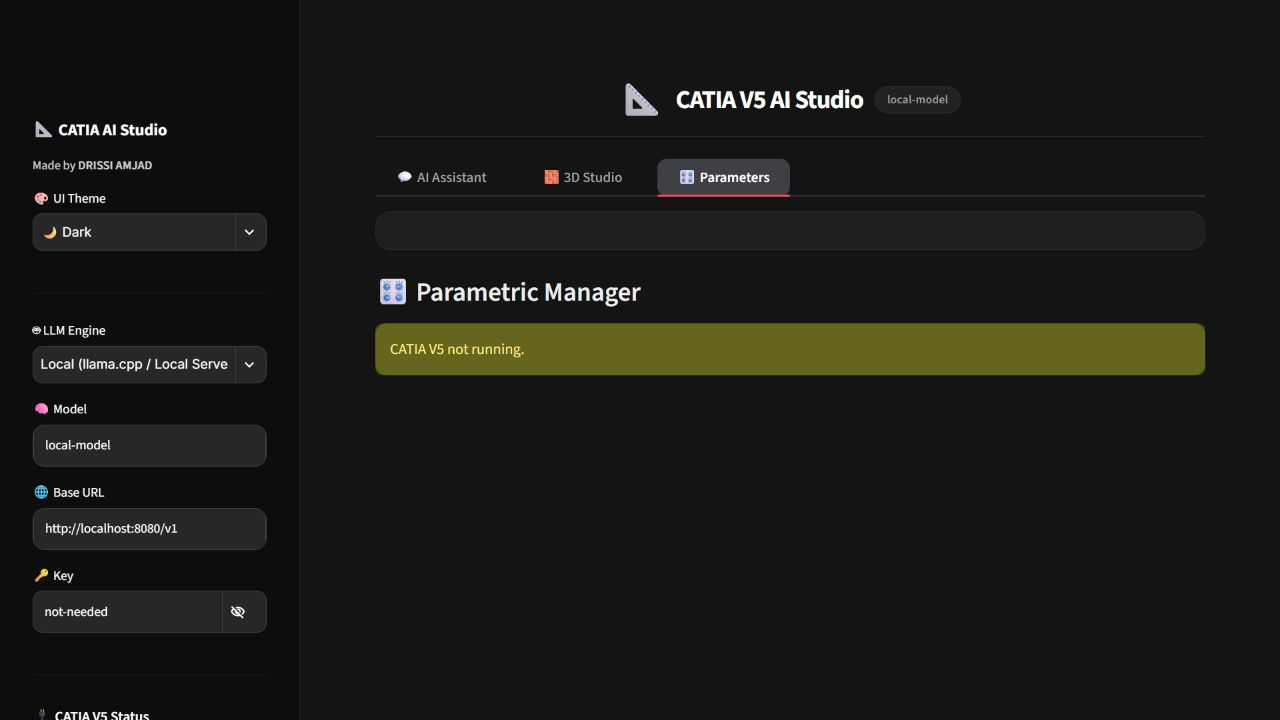
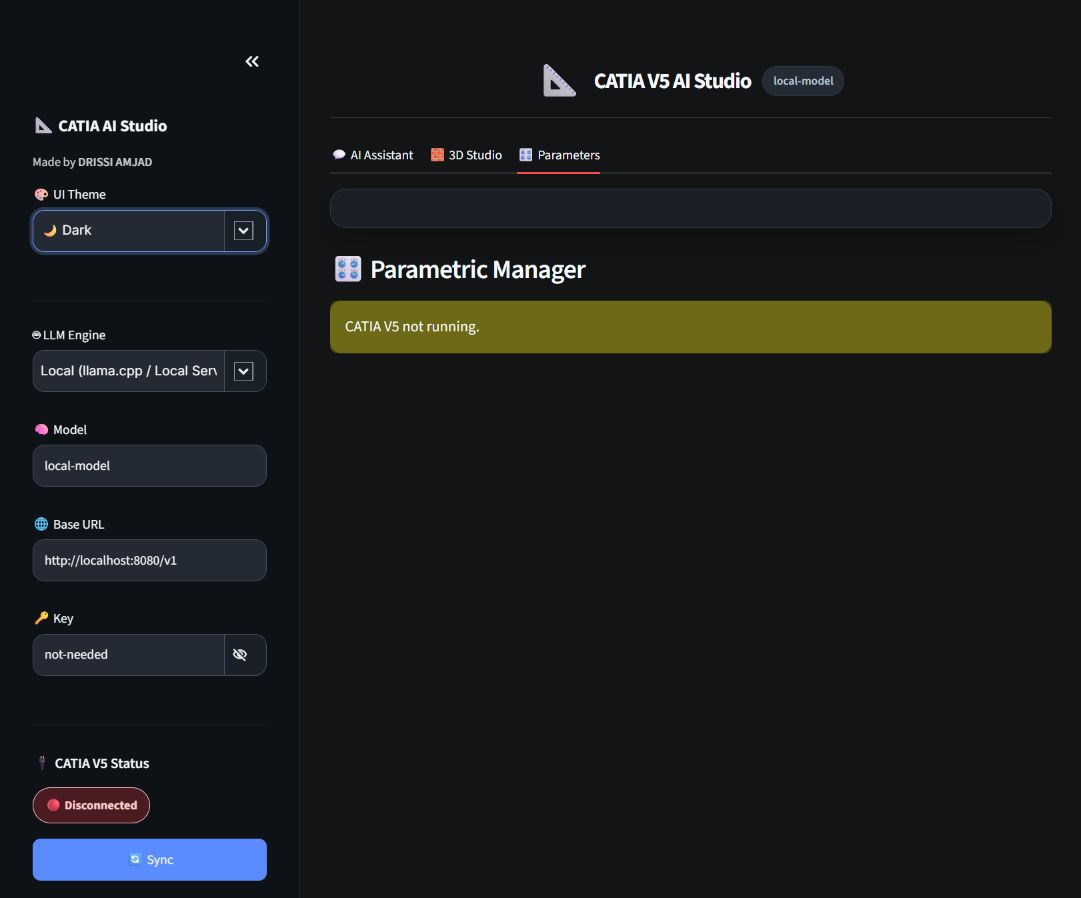
Complete semantic theme and UI refresh

diff --git a/app.py b/app.py
@@ -933,7 +933,7 @@ To split an existing solid with a 1mm gap, create a cutter body with a 1mm-thick
 # STREAMLIT GUI
 # ==============================================================================
 
-def inject_css(theme="🌙 Dark"):
+def _legacy_inject_css(theme="🌙 Dark"):
     if theme == "☀ Light":
         bg_app = "#f8fafc"
         color_app = "#0f172a"
@@ -1379,6 +1379,345 @@ def inject_css(theme="🌙 Dark"):
         }}
     }}
     </style>""", unsafe_allow_html=True)
+
+
+def _theme_tokens(theme):
+    """Return the single semantic visual contract used by every UI component."""
+    common = {
+        "radius-sm": "8px",
+        "radius-md": "12px",
+        "radius-lg": "16px",
+        "motion-fast": "150ms",
+        "motion-standard": "200ms",
+        "motion-slow": "300ms",
+        "font-body": "Inter, ui-sans-serif, system-ui, -apple-system, BlinkMacSystemFont, 'Segoe UI', sans-serif",
+    }
+    if theme == "☀ Light":
+        return {**common, **{
+            "color-scheme": "light",
+            "app-bg": "#f7f9fc", "sidebar-bg": "#ffffff", "surface": "#ffffff", "surface-subtle": "#f1f5f9",
+            "surface-hover": "#eef4ff", "border": "#d9e2ec", "border-strong": "#b8c7d9",
+            "text": "#0f172a", "text-muted": "#52606d", "text-faint": "#7b8794",
+            "sidebar-text": "#0f172a", "sidebar-muted": "#52606d", "sidebar-border": "#e1e8f0",
+            "primary": "#2563eb", "primary-hover": "#1d4ed8", "primary-text": "#ffffff",
+            "focus": "#2563eb", "focus-ring": "rgba(37, 99, 235, .24)",
+            "input-bg": "#ffffff", "input-text": "#0f172a", "input-border": "#b8c7d9",
+            "input-hover": "#f8fbff", "control-suffix": "#f3f6fa", "control-suffix-text": "#334155",
+            "chip-bg": "#eef2f7", "chip-text": "#475569", "shadow": "0 10px 30px rgba(15, 23, 42, .06)",
+            "warning-bg": "#fef3c7", "warning-text": "#92400e", "info-bg": "#e0f2fe", "info-text": "#075985",
+            "success-bg": "#dcfce7", "success-text": "#166534", "danger-bg": "#fee2e2", "danger-text": "#991b1b",
+        }}
+    if theme == "🔵 Ocean Blue":
+        return {**common, **{
+            "color-scheme": "light",
+            "app-bg": "#eff6ff", "sidebar-bg": "#0b1629", "surface": "#ffffff", "surface-subtle": "#e6f4ff",
+            "surface-hover": "#dff1ff", "border": "#b9e6ff", "border-strong": "#72c8f0",
+            "text": "#0c4a6e", "text-muted": "#27678b", "text-faint": "#5282a0",
+            "sidebar-text": "#f0f9ff", "sidebar-muted": "#b9d9ec", "sidebar-border": "#203451",
+            "primary": "#0891b2", "primary-hover": "#0e7490", "primary-text": "#ffffff",
+            "focus": "#0284c7", "focus-ring": "rgba(2, 132, 199, .28)",
+            "input-bg": "#1b2a40", "input-text": "#f0f9ff", "input-border": "#334c6b",
+            "input-hover": "#21354f", "control-suffix": "#152238", "control-suffix-text": "#d9f2ff",
+            "chip-bg": "#dff3ff", "chip-text": "#03648c", "shadow": "0 10px 28px rgba(14, 116, 144, .08)",
+            "warning-bg": "#fef3c7", "warning-text": "#92400e", "info-bg": "#dff4ff", "info-text": "#075985",
+            "success-bg": "#dcfce7", "success-text": "#166534", "danger-bg": "#fee2e2", "danger-text": "#991b1b",
+        }}
+    return {**common, **{
+        "color-scheme": "dark",
+        "app-bg": "#121416", "sidebar-bg": "#0e1115", "surface": "#1b2026", "surface-subtle": "#20262e",
+        "surface-hover": "#27303a", "border": "#303943", "border-strong": "#485565",
+        "text": "#f4f7fb", "text-muted": "#a9b4c0", "text-faint": "#7f8b98",
+        "sidebar-text": "#f4f7fb", "sidebar-muted": "#a9b4c0", "sidebar-border": "#252c34",
+        "primary": "#5b8cff", "primary-hover": "#4676e8", "primary-text": "#ffffff",
+        "focus": "#78a0ff", "focus-ring": "rgba(120, 160, 255, .28)",
+        "input-bg": "#232a33", "input-text": "#f4f7fb", "input-border": "#465261",
+        "input-hover": "#2a333e", "control-suffix": "#1a2027", "control-suffix-text": "#e7edf5",
+        "chip-bg": "#242b34", "chip-text": "#b9c6d5", "shadow": "0 12px 32px rgba(0, 0, 0, .22)",
+        "warning-bg": "#4a4316", "warning-text": "#fef08a", "info-bg": "#172d48", "info-text": "#bfdbfe",
+        "success-bg": "#123d2a", "success-text": "#bbf7d0", "danger-bg": "#4a1b20", "danger-text": "#fecaca",
+    }}
+
+
+def inject_css(theme="🌙 Dark"):
+    tokens = _theme_tokens(theme)
+    root_tokens = "\n".join(
+        f"        --ui-{key}: {value};" for key, value in tokens.items()
+    )
+    css = """<style>
+    @import url('https://fonts.googleapis.com/css2?family=Inter:wght@400;500;600;700&display=swap');
+    :root {
+__ROOT_TOKENS__
+    }
+
+    /* Global surfaces and type hierarchy. */
+    html, body, [data-testid="stAppViewContainer"], [data-testid="stMain"],
+    [data-testid="stMainBlockContainer"], .stApp {
+        background: var(--ui-app-bg) !important;
+        color: var(--ui-text) !important;
+        font-family: var(--ui-font-body) !important;
+    }
+    html, body { font-size: 15px; line-height: 1.5; }
+    [data-testid="stMainBlockContainer"] {
+        max-width: 1440px;
+        padding: 2rem 2rem 5rem;
+    }
+    [data-testid="stMain"] h1, [data-testid="stMain"] h2,
+    [data-testid="stMain"] h3, [data-testid="stMain"] h4 {
+        color: var(--ui-text) !important;
+        letter-spacing: -.025em;
+    }
+    [data-testid="stMain"] p, [data-testid="stMain"] label,
+    [data-testid="stMain"] [data-testid="stMarkdownContainer"] {
+        color: var(--ui-text) !important;
+    }
+    [data-testid="stMain"] small, [data-testid="stMain"] [data-testid="stCaptionContainer"] {
+        color: var(--ui-text-muted) !important;
+    }
+    ::selection { background: var(--ui-focus-ring); color: var(--ui-text); }
+
+    /* Sidebar and its visual grouping. */
+    section[data-testid="stSidebar"] {
+        background: var(--ui-sidebar-bg) !important;
+        border-right: 1px solid var(--ui-sidebar-border) !important;
+    }
+    [data-testid="stSidebarContent"] { padding: 2.25rem 1.5rem 1.5rem; }
+    section[data-testid="stSidebar"] h1, section[data-testid="stSidebar"] h2,
+    section[data-testid="stSidebar"] h3, section[data-testid="stSidebar"] h4,
+    section[data-testid="stSidebar"] label, section[data-testid="stSidebar"] p,
+    section[data-testid="stSidebar"] span, section[data-testid="stSidebar"] [data-testid="stMarkdownContainer"] {
+        color: var(--ui-sidebar-text) !important;
+    }
+    section[data-testid="stSidebar"] [data-testid="stCaptionContainer"] {
+        color: var(--ui-sidebar-muted) !important;
+    }
+    section[data-testid="stSidebar"] hr {
+        border-color: var(--ui-sidebar-border) !important;
+        margin: 1.5rem 0 !important;
+    }
+    [data-testid="collapsedControl"] {
+        color: var(--ui-sidebar-text) !important;
+        background: var(--ui-sidebar-bg) !important;
+    }
+
+    /* Shared form field surface. The suffix buttons intentionally use the
+       same token as the field, preventing theme-specific black blocks. */
+    [data-testid="stTextInput"], [data-testid="stNumberInput"], [data-testid="stSelectbox"],
+    [data-testid="stTextArea"], [data-testid="stFileUploader"] { margin-bottom: .75rem; }
+    [data-testid="stTextInputRootElement"], [data-testid="stNumberInput"] > div,
+    [data-testid="stSelectbox"] [data-baseweb="select"] > div,
+    [data-testid="stTextArea"] textarea, [data-testid="stTextInput"] input,
+    [data-testid="stNumberInput"] input {
+        background: var(--ui-input-bg) !important;
+        color: var(--ui-input-text) !important;
+        border: 1px solid var(--ui-input-border) !important;
+        border-radius: var(--ui-radius-md) !important;
+        box-sizing: border-box !important;
+        min-height: 42px;
+        transition: background var(--ui-motion-fast) ease, border-color var(--ui-motion-fast) ease, box-shadow var(--ui-motion-fast) ease;
+    }
+    /* Streamlit 1.5x uses React-Aria for selectboxes. Keep this selector
+       alongside the BaseWeb selector so the theme remains stable across
+       Streamlit markup versions. */
+    [data-testid="stSelectbox"] .react-aria-ComboBox > [role="group"] {
+        background: var(--ui-input-bg) !important;
+        border: 1px solid var(--ui-input-border) !important;
+        border-radius: var(--ui-radius-md) !important;
+        box-sizing: border-box !important;
+        min-height: 42px;
+        overflow: hidden;
+    }
+    [data-testid="stSelectbox"] .react-aria-ComboBox > [role="group"] > input {
+        background: transparent !important;
+        border: 0 !important;
+        color: var(--ui-input-text) !important;
+        min-height: 40px;
+    }
+    [data-testid="stSelectbox"] .react-aria-ComboBox > [role="group"] > button {
+        background: var(--ui-control-suffix) !important;
+        border: 0 !important;
+        border-left: 1px solid var(--ui-input-border) !important;
+        border-radius: 0 !important;
+        color: var(--ui-control-suffix-text) !important;
+        min-height: 40px !important;
+        min-width: 42px !important;
+    }
+    [data-testid="stSelectbox"] .react-aria-ComboBox > [role="group"] svg {
+        color: var(--ui-control-suffix-text) !important;
+        fill: var(--ui-control-suffix-text) !important;
+        stroke: var(--ui-control-suffix-text) !important;
+    }
+    [data-testid="stTextInputRootElement"] input,
+    [data-testid="stNumberInput"] input { border: 0 !important; border-radius: inherit !important; }
+    [data-testid="stTextInputRootElement"] > div { background: transparent !important; }
+    [data-testid="stSelectbox"] [data-baseweb="select"] > div > div,
+    [data-testid="stSelectbox"] [role="combobox"],
+    [data-testid="stSelectbox"] svg {
+        color: var(--ui-input-text) !important;
+        fill: var(--ui-input-text) !important;
+        stroke: var(--ui-input-text) !important;
+    }
+    [data-testid="stTextInputRootElement"] button,
+    [data-testid="stSelectbox"] button,
+    [data-testid="stNumberInput"] button {
+        background: var(--ui-control-suffix) !important;
+        color: var(--ui-control-suffix-text) !important;
+        border-color: var(--ui-input-border) !important;
+        min-width: 42px !important;
+        min-height: 40px !important;
+    }
+    [data-testid="stTextInputRootElement"] button[aria-pressed] {
+        border: 0 !important;
+        border-left: 1px solid var(--ui-input-border) !important;
+        border-radius: 0 var(--ui-radius-md) var(--ui-radius-md) 0 !important;
+    }
+    [data-testid="stTextInputRootElement"] svg,
+    [data-testid="stSelectbox"] button svg,
+    [data-testid="stNumberInput"] button svg {
+        color: var(--ui-control-suffix-text) !important;
+        fill: var(--ui-control-suffix-text) !important;
+        stroke: var(--ui-control-suffix-text) !important;
+    }
+    [data-testid="stTextInputRootElement"]:focus-within,
+    [data-testid="stNumberInput"]:focus-within,
+    [data-testid="stSelectbox"] [data-baseweb="select"]:focus-within,
+    [data-testid="stSelectbox"] .react-aria-ComboBox > [role="group"]:focus-within,
+    [data-testid="stTextArea"] textarea:focus {
+        border-color: var(--ui-focus) !important;
+        box-shadow: 0 0 0 3px var(--ui-focus-ring) !important;
+        outline: 0 !important;
+    }
+    input::placeholder, textarea::placeholder {
+        color: var(--ui-text-muted) !important;
+        opacity: .9 !important;
+    }
+    [data-testid="stTextInputRootElement"]:hover,
+    [data-testid="stNumberInput"]:hover,
+    [data-testid="stSelectbox"] [data-baseweb="select"] > div:hover,
+    [data-testid="stSelectbox"] .react-aria-ComboBox > [role="group"]:hover,
+    [data-testid="stTextArea"] textarea:hover { background: var(--ui-input-hover) !important; }
+    button:disabled, input:disabled, textarea:disabled {
+        opacity: .55 !important;
+        cursor: not-allowed !important;
+    }
+    [data-baseweb="popover"], [data-baseweb="menu"], ul[role="listbox"] {
+        background: var(--ui-surface) !important;
+        border: 1px solid var(--ui-border) !important;
+        border-radius: var(--ui-radius-md) !important;
+        box-shadow: var(--ui-shadow) !important;
+    }
+    li[role="option"], li[role="option"] * {
+        background: var(--ui-surface) !important;
+        color: var(--ui-text) !important;
+    }
+    li[role="option"]:hover, li[role="option"][aria-selected="true"] {
+        background: var(--ui-surface-hover) !important;
+    }
+
+    /* Native focus is retained and made visible on every operable control. */
+    button:focus-visible, input:focus-visible, textarea:focus-visible,
+    [role="combobox"]:focus-visible, [role="tab"]:focus-visible,
+    summary:focus-visible {
+        outline: 2px solid var(--ui-focus) !important;
+        outline-offset: 2px !important;
+    }
+
+    /* Header and workspace navigation. */
+    .hdr {
+        align-items: center;
+        border-bottom: 1px solid var(--ui-border);
+        display: flex;
+        gap: .75rem;
+        justify-content: center;
+        margin: 0 auto 1.25rem;
+        min-height: 72px;
+        padding: .75rem 0;
+    }
+    .hdr-t { color: var(--ui-text) !important; font-size: clamp(1.45rem, 2vw, 1.9rem); font-weight: 700; letter-spacing: -.04em; }
+    .chip { background: var(--ui-chip-bg) !important; border: 1px solid var(--ui-border); border-radius: 999px; color: var(--ui-chip-text) !important; font-size: .78rem; font-weight: 600; padding: .35rem .7rem; }
+    [data-testid="stTabs"] [data-baseweb="tab-list"], [data-testid="stTabsHeader"] {
+        background: transparent !important;
+        border-bottom: 1px solid var(--ui-border) !important;
+        border-radius: 0 !important;
+        gap: 4px !important;
+        justify-content: flex-start !important;
+        margin: 0 0 1.5rem !important;
+        max-width: none !important;
+        padding: 0 !important;
+    }
+    [data-testid="stTabs"] [data-baseweb="tab"], [data-testid="stTabs"] button[role="tab"] {
+        border-radius: var(--ui-radius-sm) var(--ui-radius-sm) 0 0 !important;
+        color: var(--ui-text-muted) !important;
+        min-height: 44px !important;
+        padding: .65rem 1rem !important;
+        transition: background var(--ui-motion-fast) ease, color var(--ui-motion-fast) ease, box-shadow var(--ui-motion-fast) ease;
+    }
+    [data-testid="stTabs"] [data-baseweb="tab"] *, [data-testid="stTabs"] button[role="tab"] * { color: inherit !important; }
+    [data-testid="stTabs"] [data-baseweb="tab"][aria-selected="true"], [data-testid="stTabs"] button[role="tab"][aria-selected="true"] {
+        background: var(--ui-primary) !important;
+        box-shadow: inset 0 -3px 0 var(--ui-primary-hover) !important;
+        color: var(--ui-primary-text) !important;
+    }
+
+    /* Quick-start cards, working panels, expanders, and upload states. */
+    .qc { display: grid; gap: .75rem; grid-template-columns: repeat(2, minmax(0, 1fr)); margin: 1.25rem auto 1.75rem; max-width: 900px; }
+    .qci, .wp, [data-testid="stExpander"], details {
+        background: var(--ui-surface) !important;
+        border: 1px solid var(--ui-border) !important;
+        border-radius: var(--ui-radius-lg) !important;
+        box-shadow: var(--ui-shadow) !important;
+    }
+    .qci { min-height: 86px; padding: 1rem 1.1rem; transition: background var(--ui-motion-fast) ease, border-color var(--ui-motion-fast) ease, transform var(--ui-motion-fast) ease; }
+    .qci:hover { background: var(--ui-surface-hover) !important; border-color: var(--ui-primary) !important; transform: translateY(-2px); }
+    .qci-t { color: var(--ui-text) !important; font-size: .95rem; font-weight: 700; margin-bottom: .25rem; }
+    .qci-d { color: var(--ui-text-muted) !important; font-size: .83rem; }
+    .wp { margin-bottom: 1rem; padding: 1.25rem; }
+    [data-testid="stExpander"] summary, details summary { background: var(--ui-surface) !important; color: var(--ui-text) !important; min-height: 44px; }
+    [data-testid="stExpander"] summary *, details summary * { color: var(--ui-text) !important; }
+    [data-testid="stFileUploaderDropzone"], section[data-testid="stFileUploader"] { background: var(--ui-surface-subtle) !important; border: 1px dashed var(--ui-border-strong) !important; border-radius: var(--ui-radius-md) !important; }
+    [data-testid="stFileUploaderDropzone"] * { color: var(--ui-text-muted) !important; }
+    [data-testid="stFileUploaderDropzone"] button { background: var(--ui-primary) !important; color: var(--ui-primary-text) !important; border: 0 !important; border-radius: var(--ui-radius-sm) !important; }
+
+    /* Action buttons and progress feedback. */
+    .stButton > button, [data-testid="stChatInput"] button {
+        background: var(--ui-primary) !important;
+        border: 1px solid var(--ui-primary) !important;
+        border-radius: var(--ui-radius-sm) !important;
+        color: var(--ui-primary-text) !important;
+        font-weight: 600;
+        min-height: 42px !important;
+        transition: background var(--ui-motion-fast) ease, border-color var(--ui-motion-fast) ease, transform var(--ui-motion-fast) ease;
+    }
+    .stButton > button:hover, [data-testid="stChatInput"] button:hover { background: var(--ui-primary-hover) !important; border-color: var(--ui-primary-hover) !important; transform: translateY(-1px); }
+    .stButton > button:active, [data-testid="stChatInput"] button:active { transform: translateY(0); }
+    [data-testid="stAlert"], [data-testid="stStatusWidget"] { border-radius: var(--ui-radius-md) !important; }
+    [data-testid="stAlert"] [data-testid="stMarkdownContainer"] * { color: var(--ui-text) !important; }
+    [data-testid="stAlert"]:has([data-testid="stAlertContentWarning"]) { background: var(--ui-warning-bg) !important; color: var(--ui-warning-text) !important; }
+    [data-testid="stAlert"]:has([data-testid="stAlertContentInfo"]) { background: var(--ui-info-bg) !important; color: var(--ui-info-text) !important; }
+    [data-testid="stAlert"]:has([data-testid="stAlertContentSuccess"]) { background: var(--ui-success-bg) !important; color: var(--ui-success-text) !important; }
+    [data-testid="stAlert"]:has([data-testid="stAlertContentError"]) { background: var(--ui-danger-bg) !important; color: var(--ui-danger-text) !important; }
+    .sc { align-items: center; border-radius: 999px; display: inline-flex; font-size: .82rem; font-weight: 700; gap: .4rem; min-height: 36px; padding: .4rem .8rem; }
+    [data-testid="stSidebar"] .sc-on, section[data-testid="stSidebar"] .sc-on { background: var(--ui-success-bg) !important; border: 1px solid var(--ui-success-text) !important; color: var(--ui-success-text) !important; }
+    [data-testid="stSidebar"] .sc-off, section[data-testid="stSidebar"] .sc-off { background: var(--ui-danger-bg) !important; border: 1px solid var(--ui-danger-text) !important; color: var(--ui-danger-text) !important; }
+
+    /* Chat workspace and fixed input affordance. */
+    [data-testid="stChatMessage"], .stChatMessage, [data-testid="stChatMessageContent"] { background: var(--ui-surface) !important; border: 1px solid var(--ui-border) !important; border-radius: var(--ui-radius-lg) !important; color: var(--ui-text) !important; margin-bottom: .75rem !important; padding: .85rem 1rem !important; }
+    [data-testid="stChatMessage"] *, .stChatMessage * { color: var(--ui-text) !important; }
+    [data-testid="stBottom"], [data-testid="stBottom"] > div { background: transparent !important; padding-bottom: .75rem !important; }
+    [data-testid="stChatInput"], [data-testid="stChatInput"] > div:first-child, [data-testid="stChatInput"] > div:first-child > div { background: var(--ui-surface) !important; border: 1px solid var(--ui-border-strong) !important; border-radius: var(--ui-radius-lg) !important; box-shadow: var(--ui-shadow) !important; }
+    [data-testid="stChatInput"] textarea { background: transparent !important; border: 0 !important; color: var(--ui-text) !important; outline: 0 !important; }
+    [data-testid="stChatInput"] button svg { color: var(--ui-primary-text) !important; fill: var(--ui-primary-text) !important; }
+
+    header[data-testid="stHeader"], footer, #MainMenu, [data-testid="stHeaderActionElements"], [data-testid="stAppDeployButton"] { background: transparent !important; display: none !important; visibility: hidden !important; }
+    @media (max-width: 900px) {
+        [data-testid="stMainBlockContainer"] { padding: 1.25rem 1rem 4rem; }
+        .hdr { justify-content: flex-start; }
+        .qc { grid-template-columns: 1fr; }
+    }
+    @media (prefers-reduced-motion: reduce) {
+        *, *::before, *::after { animation-duration: .01ms !important; animation-iteration-count: 1 !important; scroll-behavior: auto !important; transition-duration: .01ms !important; }
+    }
+    </style>""".replace("__ROOT_TOKENS__", root_tokens)
+    st.markdown(css, unsafe_allow_html=True)
 
 
 def main():
